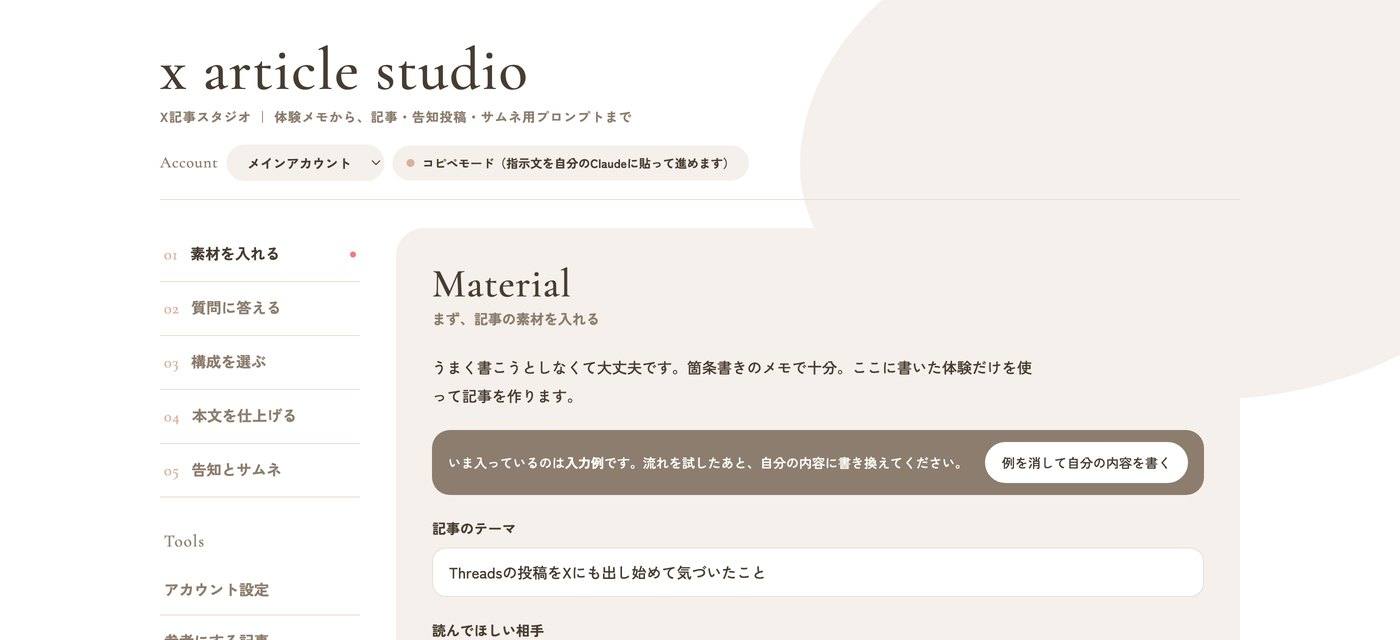
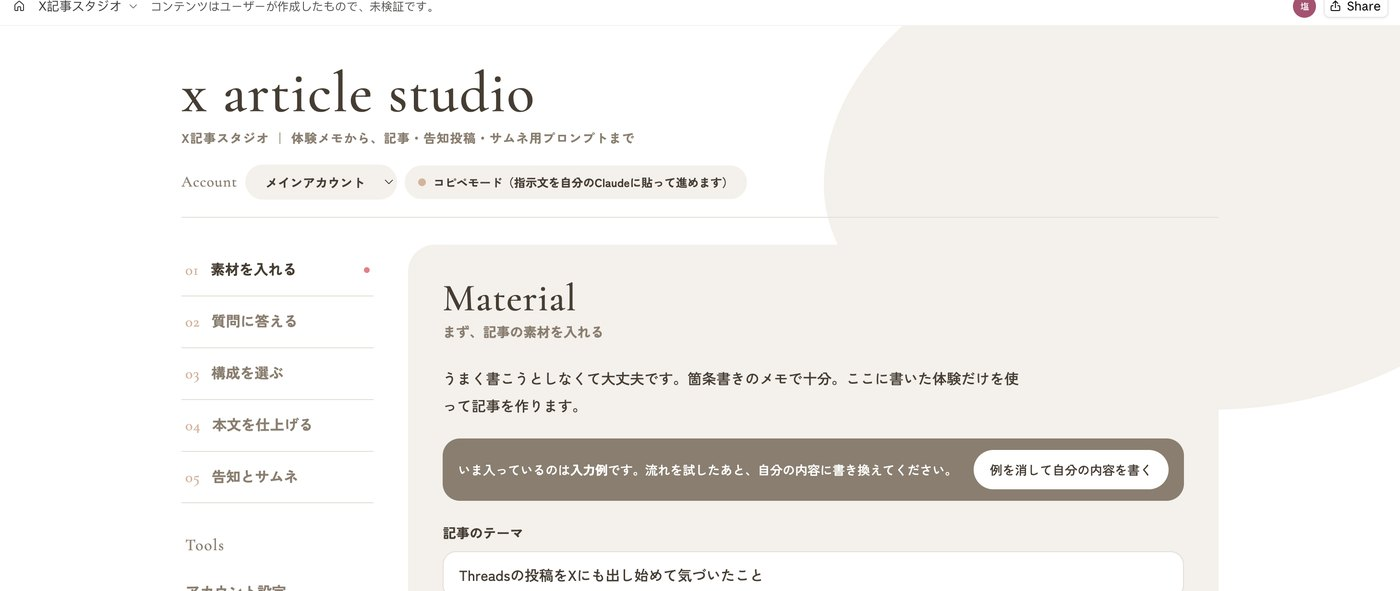
導入ガイド: 01・03を実物のスクショに差し替え、06を実際の質問文で撮り直し

diff --git a/guide/index.html b/guide/index.html
@@ -238,7 +238,7 @@ body:has(.xas) .entry-content, body:has(.xas) .wp-block-post-content { margin: 0
       <ol class="flow">
         <li><span class="n">01</span><div><b>Claudeにログインしてから、ツールのリンクを開く</b><p>先に claude.ai にログインしておき、「X記事スタジオを開く」を押します。この時点では上の表示が「コピペモード」になっていますが、それで合っています。</p><figure class="shot"><img src="img/01-open.jpg" alt="リンクを開いた直後の画面。上にコピペモードと表示されている" loading="lazy"><figcaption>開いた直後はこの状態。「コピペモード」と出ていてOK</figcaption></figure></div></li>
         <li><span class="n">02</span><div><b>左上の「X記事スタジオ ▾」から「複製」する</b><p>画面左上のツール名を押して「複製」を選ぶと、あなた専用のコピーができます。コピーの持ち主はあなたなので、ここからはあなたのClaudeで動きます。</p><figure class="shot narrow"><img src="img/02-duplicate.jpg" alt="左上のツール名を押して開いたメニュー。上から2番目に複製がある" loading="lazy"><figcaption>左上のツール名を押すとメニューが開く。上から2番目の「複製」を押す</figcaption></figure></div></li>
-        <li><span class="n">03</span><div><b>「Claudeにつながっています」を確認して、コピーを取っておく</b><p>コピーを開いて10秒ほど待つと、上の表示が「Claudeにつながっています」に変わります。次からはこのコピーを使うので、すぐ開けるようにしておきます。やり方は、この下の「<a href="#keep">自分のコピーを取っておく</a>」を見てください。</p><figure class="shot"><img src="img/03-connected.jpg" alt="複製したコピーの画面。名前にCopyが付き、Claudeにつながっていますと表示されている" loading="lazy"><figcaption>上の表示が「Claudeにつながっています」に変わっていれば成功（ページの名前には (Copy) が付きます）</figcaption></figure></div></li>
+        <li><span class="n">03</span><div><b>「Claudeにつながっています」を確認して、コピーを取っておく</b><p>コピーを開いて10秒ほど待つと、上の表示が「Claudeにつながっています」に変わります。次からはこのコピーを使うので、すぐ開けるようにしておきます。やり方は、この下の「<a href="#keep">自分のコピーを取っておく</a>」を見てください。</p><figure class="shot"><img src="img/03-connected.jpg" alt="複製したコピーの画面。名前にCopyが付き、Claudeにつながっていますと表示されている" loading="lazy"><figcaption>左上の名前に (Copy) が付いて、「Claudeにつながっています」に変わっていれば成功</figcaption></figure></div></li>
         <li><span class="n">04</span><div><b>アカウント設定に、自分の過去投稿を貼る</b><p>左の「アカウント設定」で、自分らしい投稿を3〜10本貼ります。これが口調の見本になります。複数アカウントを運用している人は、ここでアカウントを追加できます。</p></div></li>
         <li><span class="n">05</span><div><b>参考にしたい記事を登録する（やらなくてもOK）</b><p>「参考にする記事」に、構成を真似したいXの記事の本文を貼って「構成を分解してもらう」。骨組みだけが保存され、次から選べるようになります。</p></div></li>
         <li><span class="n">06</span><div><b>素材を入れて、ボタンを押す</b><p>テーマ・読んでほしい相手・記事にしたい内容を入れて「足りない話を質問してもらう」。初回だけ「Claudeの利用枠を使ってよいか」の確認が出るので、許可してください。</p><figure class="shot"><img src="img/06-questions.jpg" alt="ボタンを押したあとの画面。素材に合わせた質問が並んでいる" loading="lazy"><figcaption>少し待つと、入れた素材に合わせた質問が出てくる</figcaption></figure></div></li>

diff --git a/wp/page.html b/wp/page.html
@@ -230,7 +230,7 @@ body:has(.xas) .entry-content, body:has(.xas) .wp-block-post-content { margin: 0
       <ol class="flow">
         <li><span class="n">01</span><div><b>Claudeにログインしてから、ツールのリンクを開く</b><p>先に claude.ai にログインしておき、「X記事スタジオを開く」を押します。この時点では上の表示が「コピペモード」になっていますが、それで合っています。</p><figure class="shot"><img src="img/01-open.jpg" alt="リンクを開いた直後の画面。上にコピペモードと表示されている" loading="lazy"><figcaption>開いた直後はこの状態。「コピペモード」と出ていてOK</figcaption></figure></div></li>
         <li><span class="n">02</span><div><b>左上の「X記事スタジオ ▾」から「複製」する</b><p>画面左上のツール名を押して「複製」を選ぶと、あなた専用のコピーができます。コピーの持ち主はあなたなので、ここからはあなたのClaudeで動きます。</p><figure class="shot narrow"><img src="img/02-duplicate.jpg" alt="左上のツール名を押して開いたメニュー。上から2番目に複製がある" loading="lazy"><figcaption>左上のツール名を押すとメニューが開く。上から2番目の「複製」を押す</figcaption></figure></div></li>
-        <li><span class="n">03</span><div><b>「Claudeにつながっています」を確認して、コピーを取っておく</b><p>コピーを開いて10秒ほど待つと、上の表示が「Claudeにつながっています」に変わります。次からはこのコピーを使うので、すぐ開けるようにしておきます。やり方は、この下の「<a href="#keep">自分のコピーを取っておく</a>」を見てください。</p><figure class="shot"><img src="img/03-connected.jpg" alt="複製したコピーの画面。名前にCopyが付き、Claudeにつながっていますと表示されている" loading="lazy"><figcaption>上の表示が「Claudeにつながっています」に変わっていれば成功（ページの名前には (Copy) が付きます）</figcaption></figure></div></li>
+        <li><span class="n">03</span><div><b>「Claudeにつながっています」を確認して、コピーを取っておく</b><p>コピーを開いて10秒ほど待つと、上の表示が「Claudeにつながっています」に変わります。次からはこのコピーを使うので、すぐ開けるようにしておきます。やり方は、この下の「<a href="#keep">自分のコピーを取っておく</a>」を見てください。</p><figure class="shot"><img src="img/03-connected.jpg" alt="複製したコピーの画面。名前にCopyが付き、Claudeにつながっていますと表示されている" loading="lazy"><figcaption>左上の名前に (Copy) が付いて、「Claudeにつながっています」に変わっていれば成功</figcaption></figure></div></li>
         <li><span class="n">04</span><div><b>アカウント設定に、自分の過去投稿を貼る</b><p>左の「アカウント設定」で、自分らしい投稿を3〜10本貼ります。これが口調の見本になります。複数アカウントを運用している人は、ここでアカウントを追加できます。</p></div></li>
         <li><span class="n">05</span><div><b>参考にしたい記事を登録する（やらなくてもOK）</b><p>「参考にする記事」に、構成を真似したいXの記事の本文を貼って「構成を分解してもらう」。骨組みだけが保存され、次から選べるようになります。</p></div></li>
         <li><span class="n">06</span><div><b>素材を入れて、ボタンを押す</b><p>テーマ・読んでほしい相手・記事にしたい内容を入れて「足りない話を質問してもらう」。初回だけ「Claudeの利用枠を使ってよいか」の確認が出るので、許可してください。</p><figure class="shot"><img src="img/06-questions.jpg" alt="ボタンを押したあとの画面。素材に合わせた質問が並んでいる" loading="lazy"><figcaption>少し待つと、入れた素材に合わせた質問が出てくる</figcaption></figure></div></li>
